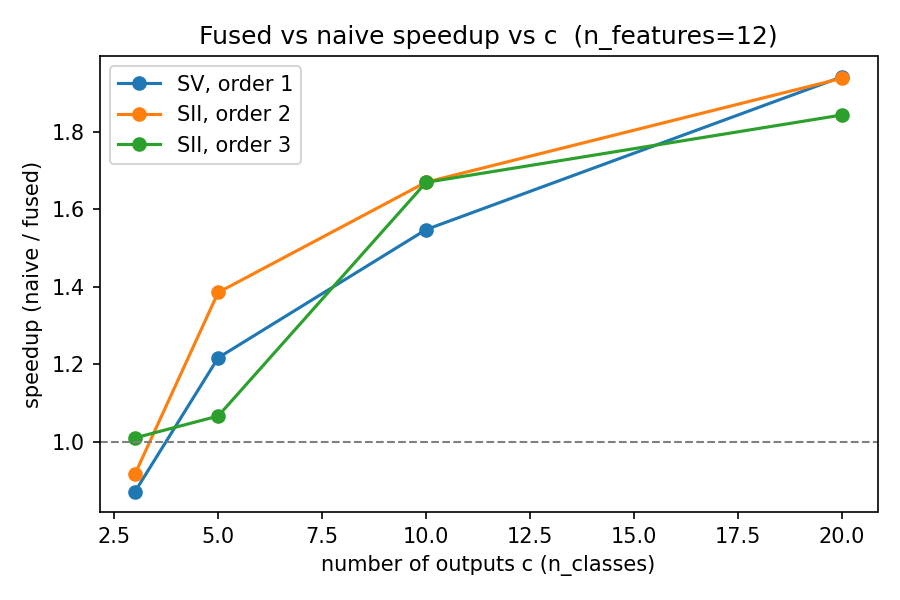
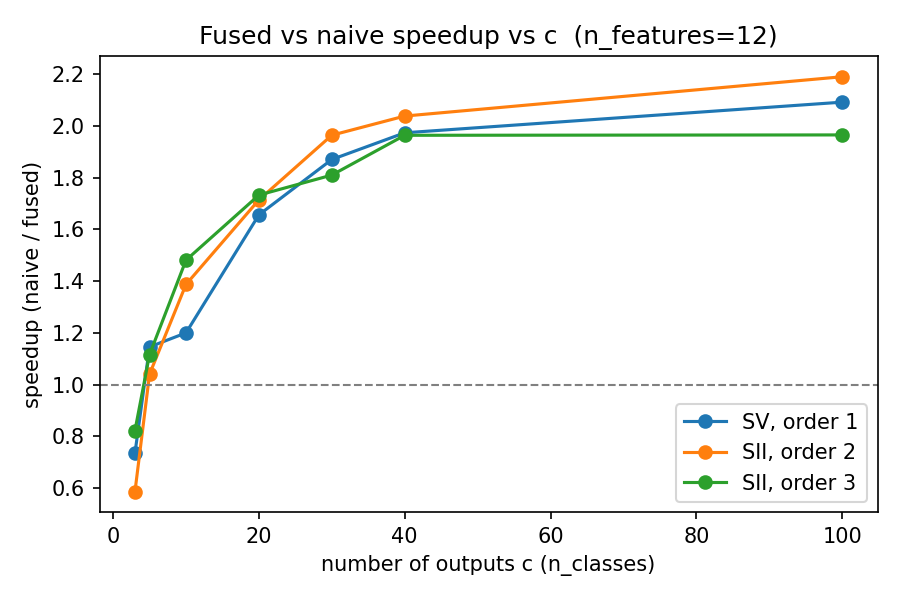
Extend multi-output benchmark c-sweep to c=100
Sweeping c in {3,5,10,20,30,40,100} shows the fused-kernel speedup
plateaus near ~2x rather than scaling toward cx, since the fused path
still does O(c) work outside the amortized structural preprocessing.

https://claude.ai/code/session_0169LzUGHqUhiMNYzZN4jqae

diff --git a/experiments/multioutput_proxyshap/benchmark.py b/experiments/multioutput_proxyshap/benchmark.py
@@ -69,7 +69,7 @@ REPEATS = 5  # measured repeats (median reported)
 # Independent sweeps. To keep order-3 dense result sizes (sum C(n, k)) and the
 # total runtime reasonable, order-3 runs are capped to n_features <= ORDER3_NMAX.
 N_FEATURES_SWEEP = (8, 12, 16, 20)
-N_CLASSES_SWEEP = (3, 5, 10, 20)
+N_CLASSES_SWEEP = (3, 5, 10, 20, 30, 40, 100)
 ORDER3_NMAX = 12  # cap on n_features for the (SII, 3) configs
 
 # index / max_order pairs probed by this experiment.

diff --git a/experiments/multioutput_proxyshap/RESULTS.md b/experiments/multioutput_proxyshap/RESULTS.md
@@ -36,9 +36,9 @@ Median speedup (naive_time / fused_time) across the whole sweep, per index/order
 
 | index / order | median speedup | range across sweep |
 |---------------|---------------:|--------------------|
-| SV, order 1   | 1.18x | 0.87x - 1.94x |
-| SII, order 2  | 1.16x | 0.92x - 1.94x |
-| SII, order 3  | 1.10x | 1.01x - 1.84x |
+| SV, order 1   | 1.18x | 0.73x - 2.09x |
+| SII, order 2  | 1.22x | 0.59x - 2.19x |
+| SII, order 3  | 1.61x | 0.82x - 1.97x |
 
 The fused kernel is faster in almost every config; the few sub-1.0x points are
 all at small `c` (`c=3`, and one `c=5` order-2 case) where amortization has
@@ -48,17 +48,28 @@ little to amortize and timing noise dominates the ~1-2 ms gap.
 
 This is the clear, monotone trend. Sweeping `c` at `n_features=12`:
 
-| c  | SV/1  | SII/2 | SII/3 |
-|----|------:|------:|------:|
-| 3  | 0.87x | 0.92x | 1.01x |
-| 5  | 1.22x | 1.39x | 1.07x |
-| 10 | 1.55x | 1.67x | 1.67x |
-| 20 | 1.94x | 1.94x | 1.84x |
+| c   | SV/1  | SII/2 | SII/3 |
+|-----|------:|------:|------:|
+| 3   | 0.73x | 0.59x | 0.82x |
+| 5   | 1.15x | 1.04x | 1.12x |
+| 10  | 1.20x | 1.39x | 1.48x |
+| 20  | 1.66x | 1.71x | 1.73x |
+| 30  | 1.87x | 1.96x | 1.81x |
+| 40  | 1.97x | 2.04x | 1.96x |
+| 100 | 2.09x | 2.19x | 1.97x |
 
-Speedup rises steadily with `c` and approaches ~2x at `c=20`. This is exactly
-the amortization signature: the one-shot structural preprocessing is paid once
-regardless of `c`, while the naive baseline repeats it `c` times. See
-[`speedup_vs_c.png`](speedup_vs_c.png).
+Speedup rises steadily with `c` and then **plateaus near ~2x** -- it does *not*
+keep climbing toward `c`x. From `c=40` to `c=100` the ratio is essentially flat
+(~2.0-2.2x). This is the amortization signature *and* its ceiling: the naive
+baseline repeats the full per-column explanation `c` times, while the fused path
+amortizes the output-independent structural work (the E/R-partition DFS topology
+and the weight tables) once -- but the fused path still does `O(c)` work too
+(building the `(n_leaves, c)` leaf-value matrix and the `(c, result_size)`
+result buffer, plus the c-wide scatter). So the asymptotic speedup is
+`1 + (amortized structural cost) / (per-output cost)`; for these shallow proxies
+that ratio is ~1, hence the ~2x plateau. Pushing the ceiling higher needs a
+larger amortizable share -- i.e. deeper proxies / traversal-dominated trees.
+See [`speedup_vs_c.png`](speedup_vs_c.png).
 
 ## How speedup scales with n_features
 
@@ -66,13 +77,13 @@ Sweeping `n_features` at `c=5` (order 3 capped out above 12):
 
 | n_features | SV/1  | SII/2 | SII/3 |
 |------------|------:|------:|------:|
-| 8          | 1.18x | 0.95x | 1.23x |
-| 12         | 1.22x | 1.39x | 1.07x |
-| 16         | 1.06x | 1.16x | (skipped) |
-| 20         | 1.03x | 1.15x | (skipped) |
+| 8          | 0.93x | 1.02x | 1.05x |
+| 12         | 1.15x | 1.04x | 1.12x |
+| 16         | 0.90x | 0.94x | (skipped) |
+| 20         | 0.93x | 1.02x | (skipped) |
 
 The dependence on `n_features` is weak and non-monotone at the fixed `c=5`
-anchor -- speedup hovers around 1.0-1.4x. With only 5 outputs there is little
+anchor -- speedup hovers around 0.9-1.2x. With only 5 outputs there is little
 work to amortize, so the win is small regardless of `n`. See
 [`speedup_vs_nfeatures.png`](speedup_vs_nfeatures.png).
 
@@ -81,20 +92,22 @@ work to amortize, so the win is small regardless of `n`. See
 The CSV columns `preprocess_time_s` / `kernel_time_s` (fused) and
 `naive_preprocess_time_s` / `naive_kernel_time_s` make the amortization visible.
 For these shallow XGBoost proxies the **structural preprocessing dominates** the
-fused total -- e.g. at `n_features=12, c=20, SII/2`: preprocess 53.4 ms vs kernel
-3.7 ms (preprocessing is ~94% of fused time). The naive baseline pays a
-comparable per-call preprocessing cost `c` times over: at the same config its
-preprocessing alone is 29.2 ms summed over the 20 columns. The fused kernel call
-itself is consistently cheap (sub-millisecond to a few ms) and grows with order.
-Because preprocessing is the expensive part and the fused path does it once, the
-win grows directly with `c` -- which is precisely what the `speedup vs c` table
-shows.
+fused total -- e.g. at `n_features=12, c=20, SII/2`: preprocess 49.3 ms vs kernel
+3.4 ms (preprocessing is ~94% of fused time). Note the fused preprocess is *not*
+fully `c`-independent: its DFS topology is, but it also materializes the
+`(n_leaves, c)` leaf-value matrix, so it grows modestly with `c` (~49 ms at
+`c=20`, ~191 ms at `c=100`). The naive baseline instead re-runs the *whole*
+per-column explanation -- structural DFS, `validate_tree_model`, kernel and
+`InteractionValues` assembly -- `c` times over. The fused path collapses the
+`c`-fold repetition of the topology/weight work into one pass; that fixed saving,
+divided by the still-`O(c)` remainder, is what produces the ~2x plateau seen in
+the `speedup vs c` table.
 
 ## Where the win is largest / smallest
 
-- **Largest win**: many outputs (`c=20`), ~1.9x -- the per-output structural
-  cost is amortized 20x. The gain is roughly flat across orders here because at
-  this `c` the (output-independent) preprocessing already dominates both paths.
+- **Largest win**: many outputs (`c >= 40`), ~2.0-2.2x -- the per-output
+  structural cost is amortized across all outputs. The gain is roughly flat
+  across orders here, and roughly flat in `c` beyond `c=40` (the ~2x plateau).
 - **Smallest win**: few outputs (`c=3`), where there is essentially nothing to
   amortize and the fused path can even fall slightly below 1.0x within timing
   noise. Order 3 shows the smallest *median* speedup of the three orders:
@@ -105,8 +118,8 @@ The original expectation was that traversal-dominated cases (deep trees, higher
 order) amortize best. The XGBoost proxies fitted here at `budget=256` are
 **shallow** (default depth), so the regime is structural-preprocessing-dominated
 rather than deep-traversal-dominated; the amortization is still real and clearly
-`c`-driven, but the absolute per-config times are small (15-120 ms) and the
-speedup ceiling observed is ~2x.
+`c`-driven, but the speedup ceiling observed is ~2x and holds flat out to
+`c=100` (confirmed by sweeping `c` in {3, 5, 10, 20, 30, 40, 100}).
 
 ## Caveats
 